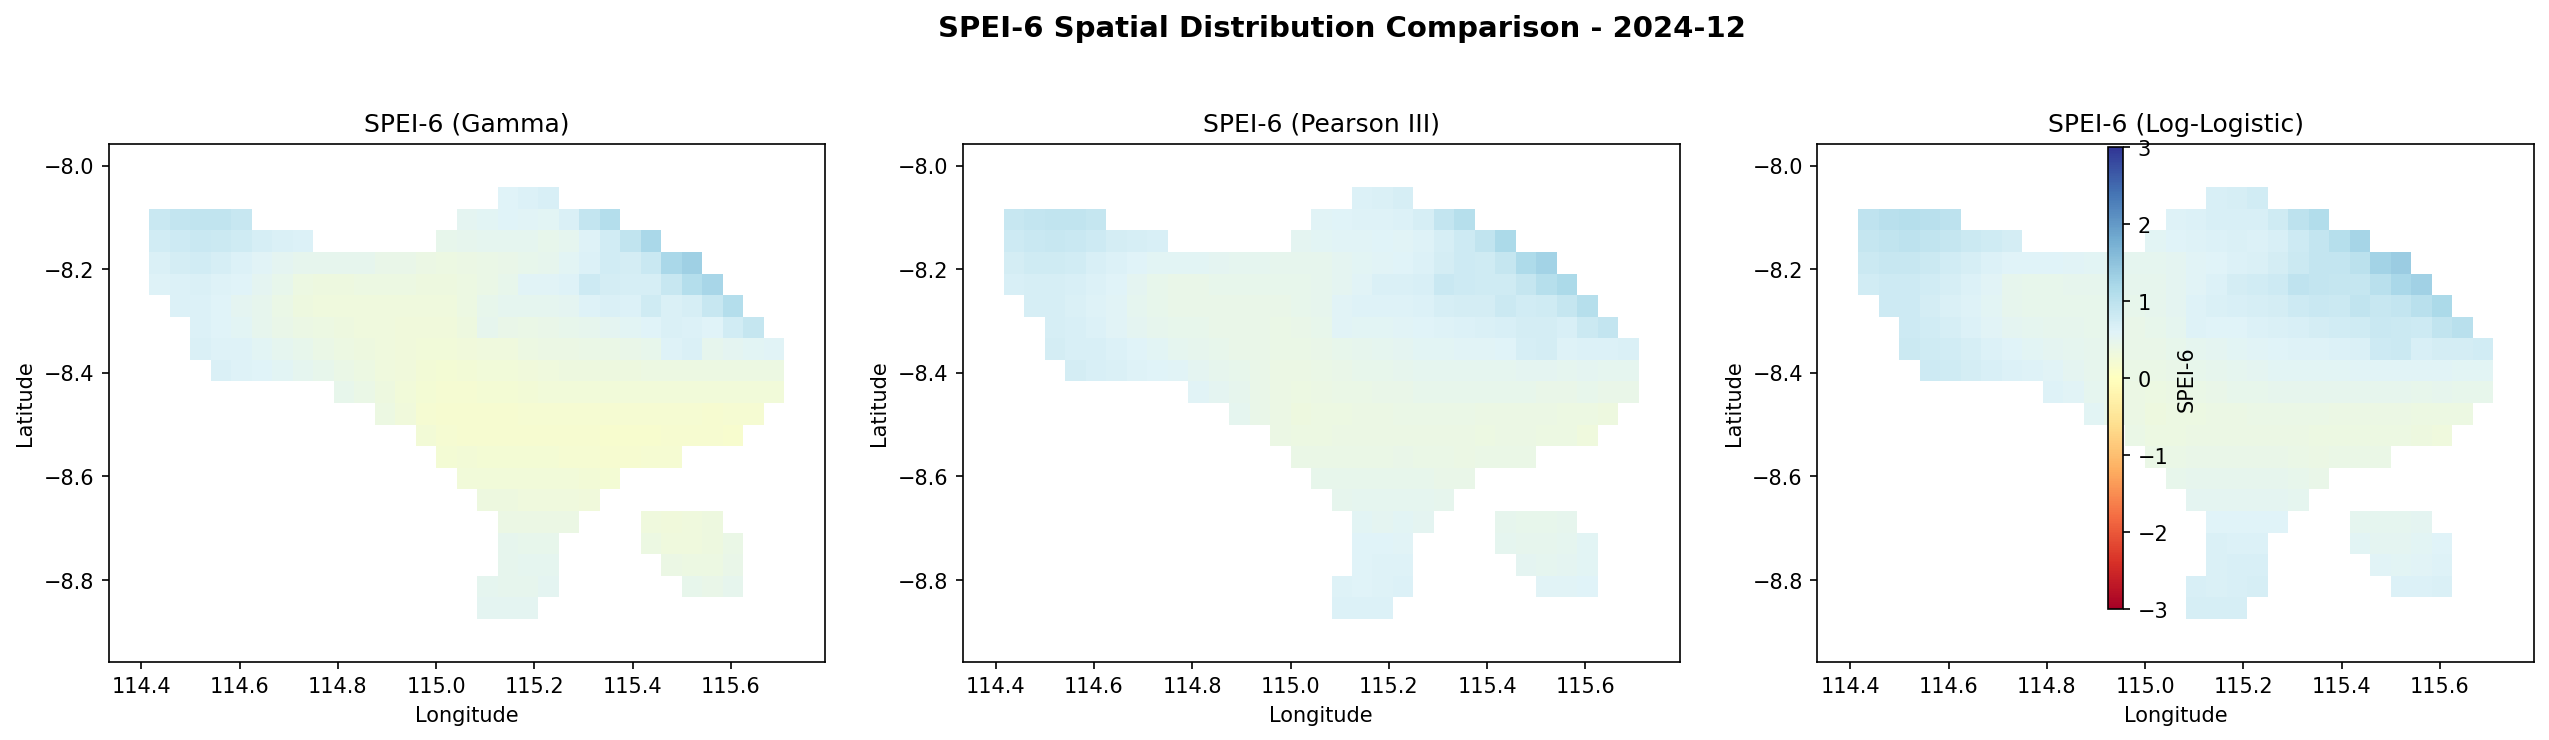
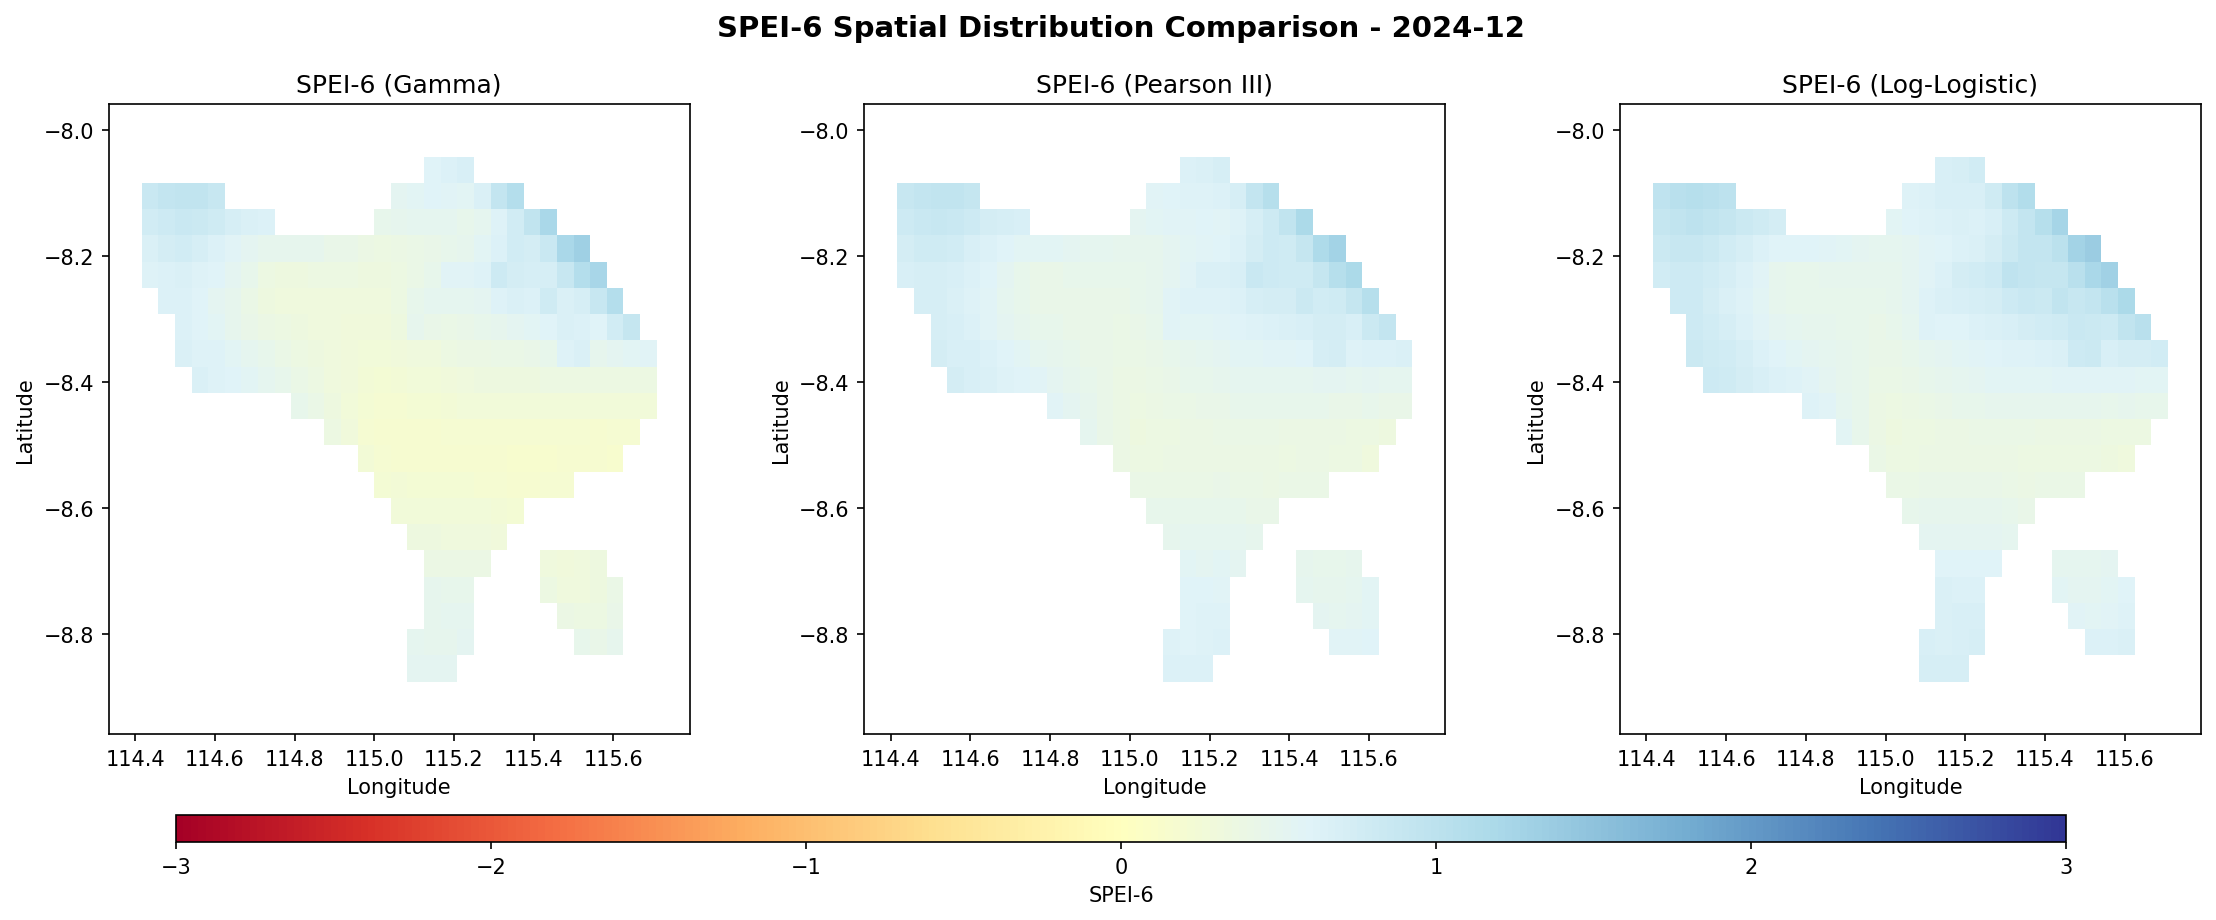
Update docs

diff --git a/tests/test_spei_with_pet.py b/tests/test_spei_with_pet.py
@@ -416,7 +416,7 @@ try:
     time_str = str(np.datetime_as_string(spei6_pet_results['gamma'].time[time_idx].values, unit='M'))
 
     n_dist = len(TEST_DISTRIBUTIONS)
-    fig, axes = plt.subplots(1, n_dist, figsize=(6 * n_dist, 5))
+    fig, axes = plt.subplots(1, n_dist, figsize=(6 * n_dist, 6))
     if n_dist == 1:
         axes = [axes]
 
@@ -428,11 +428,11 @@ try:
         ax.set_xlabel('Longitude')
         ax.set_ylabel('Latitude')
 
-    fig.colorbar(im, ax=axes, label='SPEI-6', shrink=0.8, pad=0.02,
-                 orientation='vertical', aspect=30)
     fig.suptitle(f'SPEI-6 Spatial Distribution Comparison - {time_str}',
                  fontsize=14, fontweight='bold')
-    plt.tight_layout(rect=[0, 0, 0.95, 0.95])
+    fig.subplots_adjust(bottom=0.18, wspace=0.3)
+    cbar_ax = fig.add_axes([0.15, 0.06, 0.7, 0.03])
+    fig.colorbar(im, cax=cbar_ax, label='SPEI-6', orientation='horizontal')
 
     out_path = os.path.join(OUTPUT_DIR, 'spei6_spatial_distribution_comparison.png')
     plt.savefig(out_path, dpi=150, bbox_inches='tight')

diff --git a/tests/test_spi.py b/tests/test_spi.py
@@ -378,7 +378,7 @@ try:
     time_str = str(np.datetime_as_string(spi3_results['gamma'].time[time_idx].values, unit='M'))
 
     n_dist = len(TEST_DISTRIBUTIONS)
-    fig, axes = plt.subplots(1, n_dist, figsize=(6 * n_dist, 5))
+    fig, axes = plt.subplots(1, n_dist, figsize=(6 * n_dist, 6))
     if n_dist == 1:
         axes = [axes]
 
@@ -390,11 +390,11 @@ try:
         ax.set_xlabel('Longitude')
         ax.set_ylabel('Latitude')
 
-    fig.colorbar(im, ax=axes, label='SPI-3', shrink=0.8, pad=0.02,
-                 orientation='vertical', aspect=30)
     fig.suptitle(f'SPI-3 Spatial Distribution Comparison - {time_str}',
                  fontsize=14, fontweight='bold')
-    plt.tight_layout(rect=[0, 0, 0.95, 0.95])
+    fig.subplots_adjust(bottom=0.18, wspace=0.3)
+    cbar_ax = fig.add_axes([0.15, 0.06, 0.7, 0.03])
+    fig.colorbar(im, cax=cbar_ax, label='SPI-3', orientation='horizontal')
 
     out_path = os.path.join(OUTPUT_DIR, 'spi3_spatial_distribution_comparison.png')
     plt.savefig(out_path, dpi=150, bbox_inches='tight')
